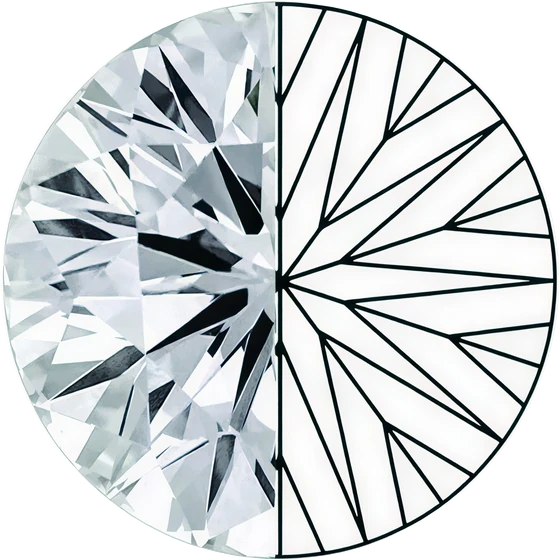
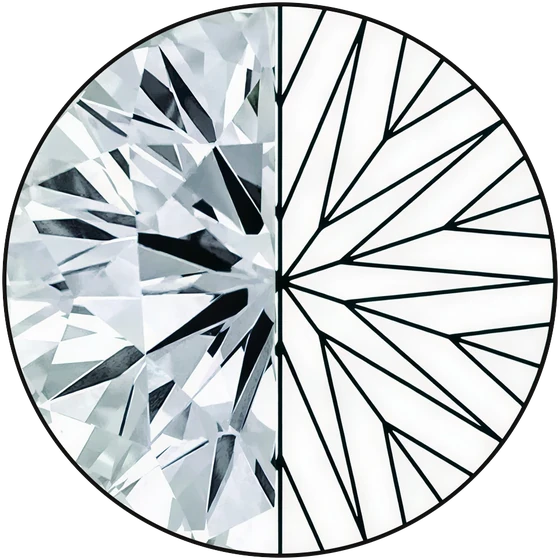
Homepage 100 Facet finishing

diff --git a/assets/css/sections.css b/assets/css/sections.css
@@ -2756,9 +2756,16 @@ body.has-cursor .cur{ opacity:1; }
 .spk__pair{position:absolute;inset:0;z-index:3;visibility:hidden;}
 .spk__cut{position:absolute;left:50%;top:41%;width:var(--spk-d);margin:0;translate:-50% -50%;will-change:transform,opacity;opacity:0;}
 .spk__disc{position:relative;display:block;width:100%;aspect-ratio:1;}
+/* one round contact shadow, drawn by the disc rather than by each image: the
+   wipe clips the Centurion image to a rectangle, and a shadow on the image
+   was clipped with it — a squared, blurred cut at the stone's lower corners */
+.spk__disc::before{content:"";position:absolute;inset:.8%;border-radius:50%;pointer-events:none;
+  box-shadow:0 24px 44px -10px rgba(60,44,40,.22),0 6px 14px -4px rgba(60,44,40,.10);}
 .spk__img{position:absolute;inset:0;}
-.spk__img img{display:block;width:100%;height:100%;object-fit:contain;filter:drop-shadow(0 22px 36px rgba(60,44,40,.16));}
-.spk__rail{position:absolute;inset:-11%;width:122%;height:122%;overflow:visible;}
+.spk__img img{display:block;width:100%;height:100%;object-fit:contain;}
+/* max-width:none: base.css caps svg at 100%, which shrank the ring and
+   pulled it left, hiding its right half behind the stone */
+.spk__rail{position:absolute;inset:-11%;width:122%;height:122%;max-width:none;overflow:visible;}
 .spk__rail line{stroke:rgba(26,25,23,.12);stroke-width:1;transition:stroke .25s;}
 .spk__rail line.is-major{stroke-width:1.5;}
 .spk__rail line.is-lit{stroke:rgba(26,25,23,.55);}
@@ -2776,7 +2783,8 @@ body.has-cursor .cur{ opacity:1; }
 .spk__note{margin-top:.9svh;font-size:10px;letter-spacing:.24em;text-transform:uppercase;color:#9a918b;}
 .spk.is-centurion [data-spk-cut="centurion"] .spk__num{color:#1a1917;}
 .spk.is-centurion [data-spk-cut="centurion"] .spk__label{color:#a0706f;}
-.spk__cut--trad .spk__img img{filter:drop-shadow(0 22px 36px rgba(60,44,40,.1)) saturate(.85);}
+.spk__cut--trad .spk__img img{filter:saturate(.85);}
+.spk__cut--trad .spk__disc::before{box-shadow:0 22px 40px -10px rgba(60,44,40,.16),0 6px 12px -4px rgba(60,44,40,.07);}
 .spk__lede{position:absolute;left:50%;bottom:7svh;translate:-50% 0;z-index:4;width:min(88vw,46ch);text-align:center;font-size:clamp(.92rem,1.05vw,1.08rem);line-height:1.7;color:#4d4642;opacity:0;visibility:hidden;}
 /* the close */
 .spk__outro{position:absolute;inset:0;z-index:5;display:flex;align-items:center;justify-content:center;opacity:0;visibility:hidden;}

diff --git a/assets/js/sparkle/index.js b/assets/js/sparkle/index.js
@@ -86,7 +86,11 @@ CD.initSparkle = function initSparkle() {
     var split = smooth(range(p, B.split.inA, B.split.inB));
     var out = smooth(range(p, B.pairOut.inA, B.pairOut.inB));
 
-    el.over.style.clipPath = 'inset(0 ' + ((1 - wipe) * 100).toFixed(2) + '% 0 0)';
+    /* once the wipe lands, drop the clip and the stone underneath entirely:
+       nothing of the traditional can fringe the Centurion's finished edge */
+    var landed = wipe >= 0.999;
+    el.over.style.clipPath = landed ? 'none' : 'inset(0 ' + ((1 - wipe) * 100).toFixed(2) + '% 0 0)';
+    el.under.style.visibility = landed ? 'hidden' : 'visible';
     el.wipe.style.left = (wipe * 100).toFixed(2) + '%';
     el.wipe.style.opacity = (Math.sin(wipe * Math.PI) * 1.2).toFixed(3);
 
@@ -106,7 +110,7 @@ CD.initSparkle = function initSparkle() {
     /* positions: one centred stone, then the pair side by side. On phones the
        single stone starts larger and both shrink to share the width. */
     var gap = narrow ? 24 : 19;                               // vw from centre
-    var sPair = narrow ? 0.66 : 1;
+    var sPair = narrow ? 0.6 : 1;                             // keeps the two tick rings apart
     var s = 1 + (sPair - 1) * split;
     var enterY = (1 - single) * 40;
     el.cen.style.transform = 'translate3d(' + (-split * gap).toFixed(2) + 'vw,' + enterY.toFixed(1) + 'px,0) scale(' + s.toFixed(4) + ')';
